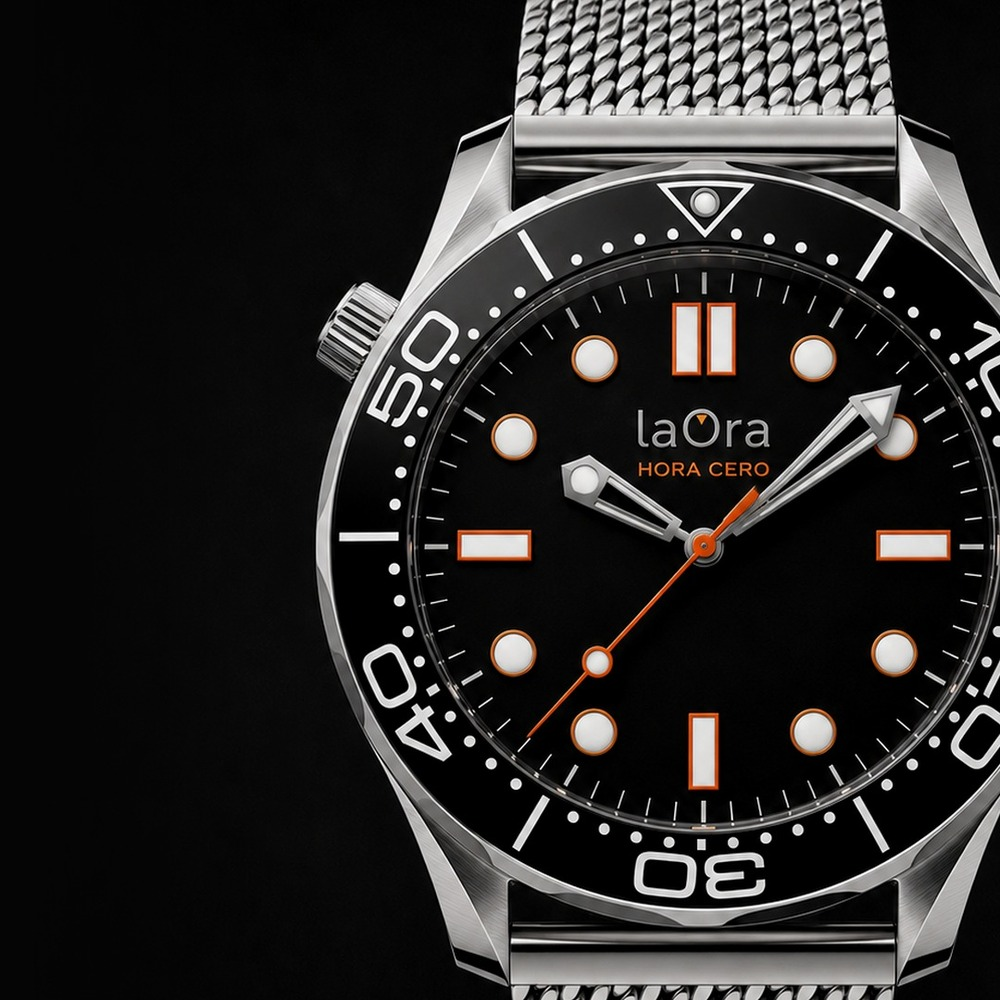
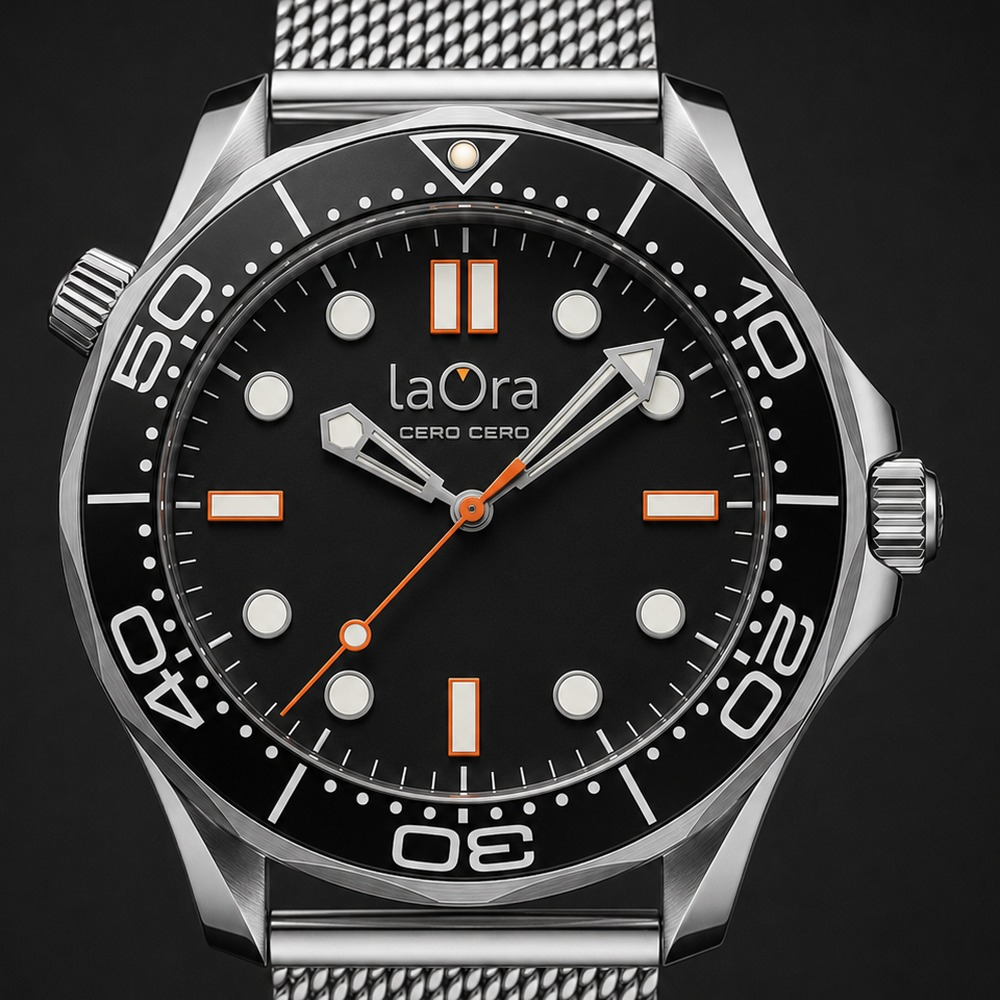
Acto III: sustituye la foto del reloj por la nueva (Cero Cero)
Recorte cuadrado y centrado de la foto que ha dado el cliente,
mismo tratamiento (tilt sutil) que el resto de tarjetas flotantes.

diff --git a/v2/index.html b/v2/index.html
@@ -222,7 +222,7 @@ h1{font-family:'Source Serif 4',Georgia,serif;font-weight:400;
 .a3-figura{position:absolute;z-index:1;top:50%;right:9%;
   width:clamp(190px,15vw,250px);aspect-ratio:1/1;
   transform:translateY(-50%)}
-.a3-figura img{width:100%;height:100%;object-fit:cover;object-position:38% 50%;display:block;
+.a3-figura img{width:100%;height:100%;object-fit:cover;object-position:50% 50%;display:block;
   border-radius:16px;box-shadow:0 50px 100px -30px rgba(0,0,0,.85),0 20px 45px -20px rgba(0,0,0,.65);
   transform:rotate(-11deg)}
 /* .a3-texto solo da contexto de posición: ocupa toda la escena para que
@@ -426,7 +426,7 @@ h1{font-family:'Source Serif 4',Georgia,serif;font-weight:400;
 <section class="acto3" id="acto3">
   <div class="a3-escena">
     <div class="a3-figura">
-      <img src="/assets/img/acto3-figura.jpg?v=1" alt="Reloj laOra Hora Cero, esfera negra con detalles naranjas" loading="lazy">
+      <img src="/assets/img/acto3-figura.jpg?v=2" alt="Reloj laOra Cero Cero, esfera negra con detalles naranjas" loading="lazy">
     </div>
     <div class="a3-texto">
      <div class="a3-centro">
